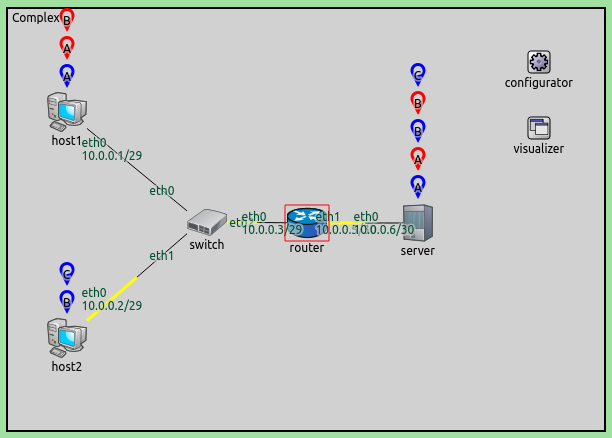
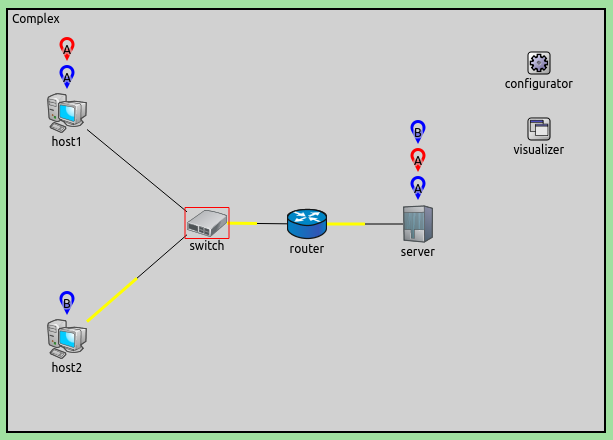
transportconnection xxx

diff --git a/samples/visualizer/transportconnection/html/index.html b/samples/visualizer/transportconnection/html/index.html
@@ -133,14 +133,8 @@ It looks like this:
 <img class="screen" src="port22host2.png">
 
 <p>
-When all node and port filters are set to "*" (their default), all 5 connections are visualized:
-</p>
-
-<img class="screen" src="all.png">
-
-<p>
 To illustrate what happens in a large network when there are more connections than available colors, the <var>iconColor</var> parameter
-is set to use only two colors, blue and red. Here is what the network looks like, with all connections visualized:
+is set to use only two colors, blue and red. Here is what the network looks like, with connections to port 80 visualized:
 </p>
 
 <img class="screen" src="letters.png">
